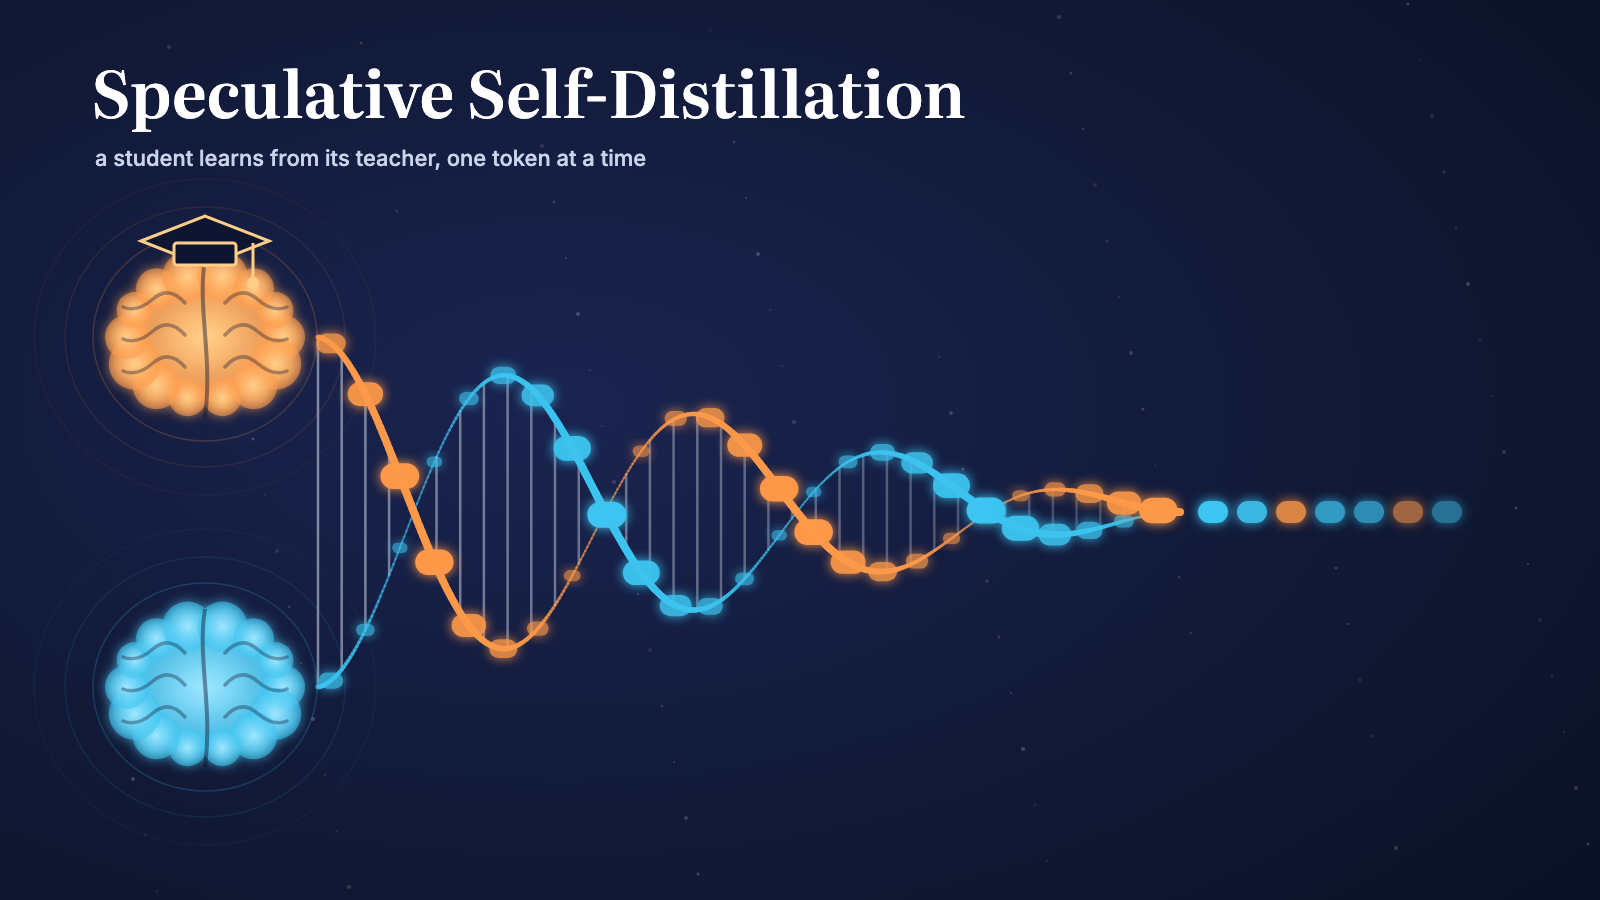
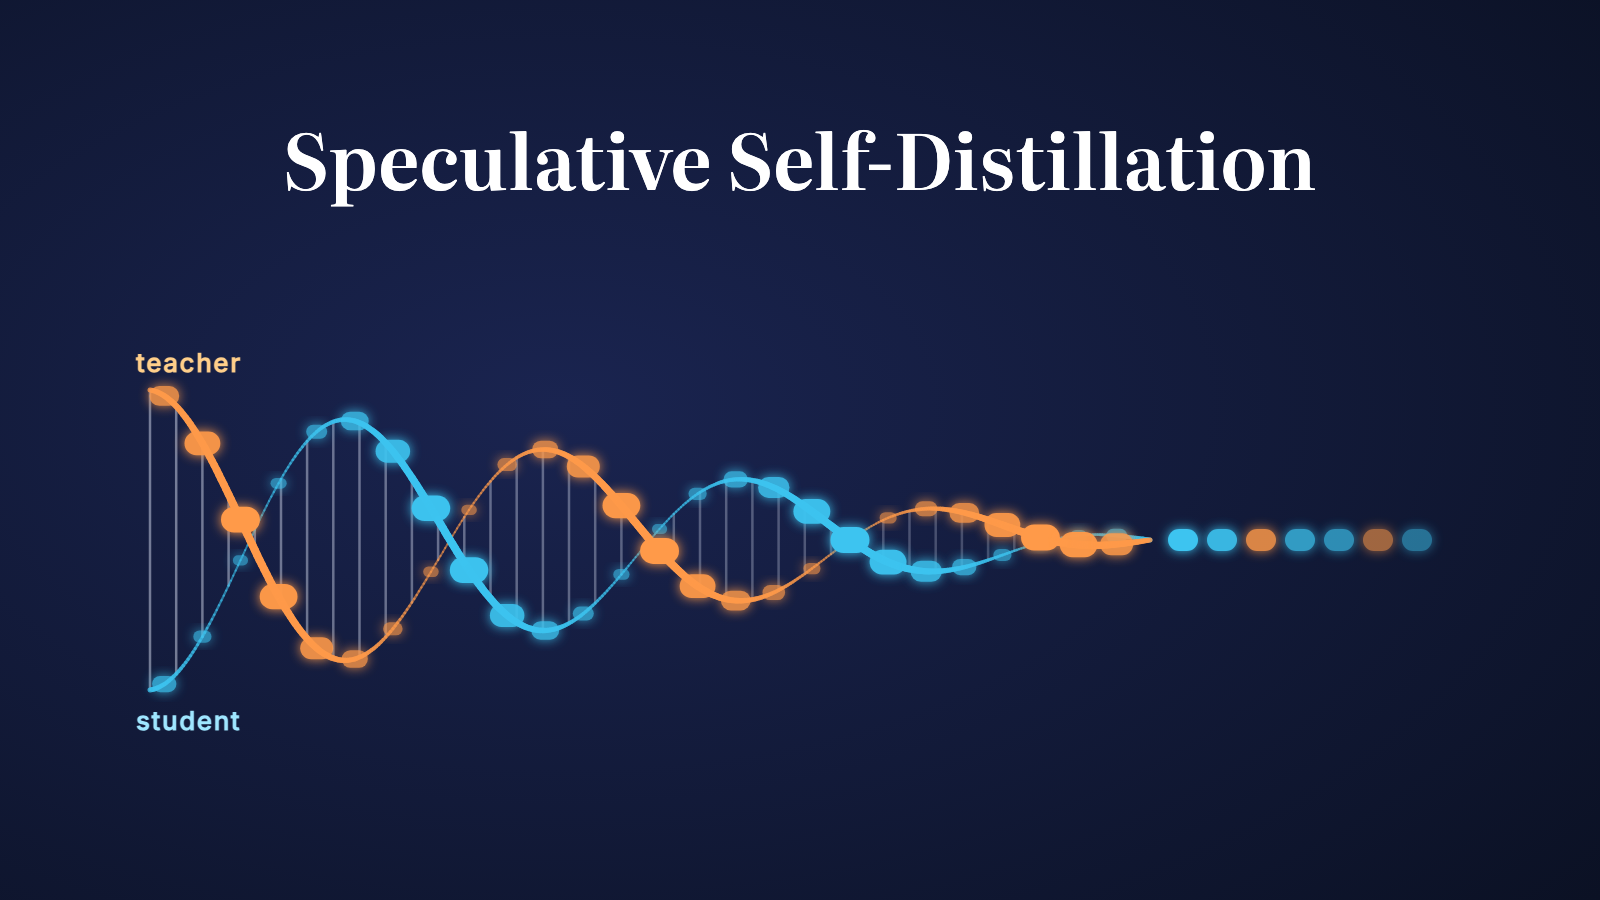
Simpler cover: title + teacher/student token helix

Changed region(s): [[0.0625, 0.2489, 0.9375, 0.8711], [0.0625, 0.0622, 0.8438, 0.2489]]

diff --git a/export/art.py b/export/art.py
@@ -32,8 +32,8 @@ def path(xy): return "M" + " L".join(f"{x:.1f},{y:.1f}" for x, y in xy)
 
 
 def thumbnail_svg() -> str:
-    cy, x0, xm, x1 = 512, 318, 1180, 1500
-    P = helix(x0, xm, cy, 175, 2.25, 400, xm)
+    cy, x0, xm, x1 = 540, 150, 1150, 1500
+    P = helix(x0, xm, cy, 150, 2.5, 420, xm)
     back, front = [], []
     # rungs (base pairs): fade with amplitude, gradient warm->cool
     for i in range(0, len(P), 11):
@@ -104,12 +104,13 @@ def thumbnail_svg() -> str:
     <filter id="gc" x="-60%" y="-60%" width="220%" height="220%"><feGaussianBlur stdDeviation="6" result="b"/>
       <feMerge><feMergeNode in="b"/><feMergeNode in="SourceGraphic"/></feMerge></filter>
   </defs>
-  <rect width="{W}" height="{H}" fill="url(#bg)"/>{stars}
+  <rect width="{W}" height="{H}" fill="url(#bg)"/>
   {"".join(back)}{tail}
-  {mind(205, cy - 175, WARM, WARM2, "gw", True)}{mind(205, cy + 175, COOL, COOL2, "gc", False)}
+  <text x="{x0 - 14}" y="{cy - 168}" class="k" fill="{WARM2}">teacher</text>
+  <text x="{x0 - 14}" y="{cy + 190}" class="k" fill="{COOL2}">student</text>
   {"".join(front)}{"".join(merged)}
-  <text x="92" y="118" class="t">Speculative Self-Distillation</text>
-  <text x="95" y="166" class="k">a student learns from its teacher, one token at a time</text>
+  <text x="{W/2}" y="190" text-anchor="middle" class="t">Speculative Self-Distillation</text>
+
 </svg>'''
 
 
@@ -146,8 +147,8 @@ def logo_svg(size=512) -> str:
 
 
 CSS = ("<link href='https://fonts.googleapis.com/css2?family=Literata:opsz,wght@7..72,600&family=Inter:wght@500&display=swap' rel='stylesheet'>"
-       "<style>body{margin:0;background:transparent} .t{font:600 64px Literata,serif;fill:#fff;letter-spacing:.005em}"
-       " .k{font:500 22px Inter,sans-serif;fill:#c9d3ea}</style>")
+       "<style>body{margin:0;background:transparent} .t{font:600 76px Literata,serif;fill:#fff;letter-spacing:.005em}"
+       " .k{font:600 26px Inter,sans-serif;letter-spacing:.06em}</style>")
 
 
 def render(pg, svg: str, w: int, h: int, out: Path, transparent=False):
